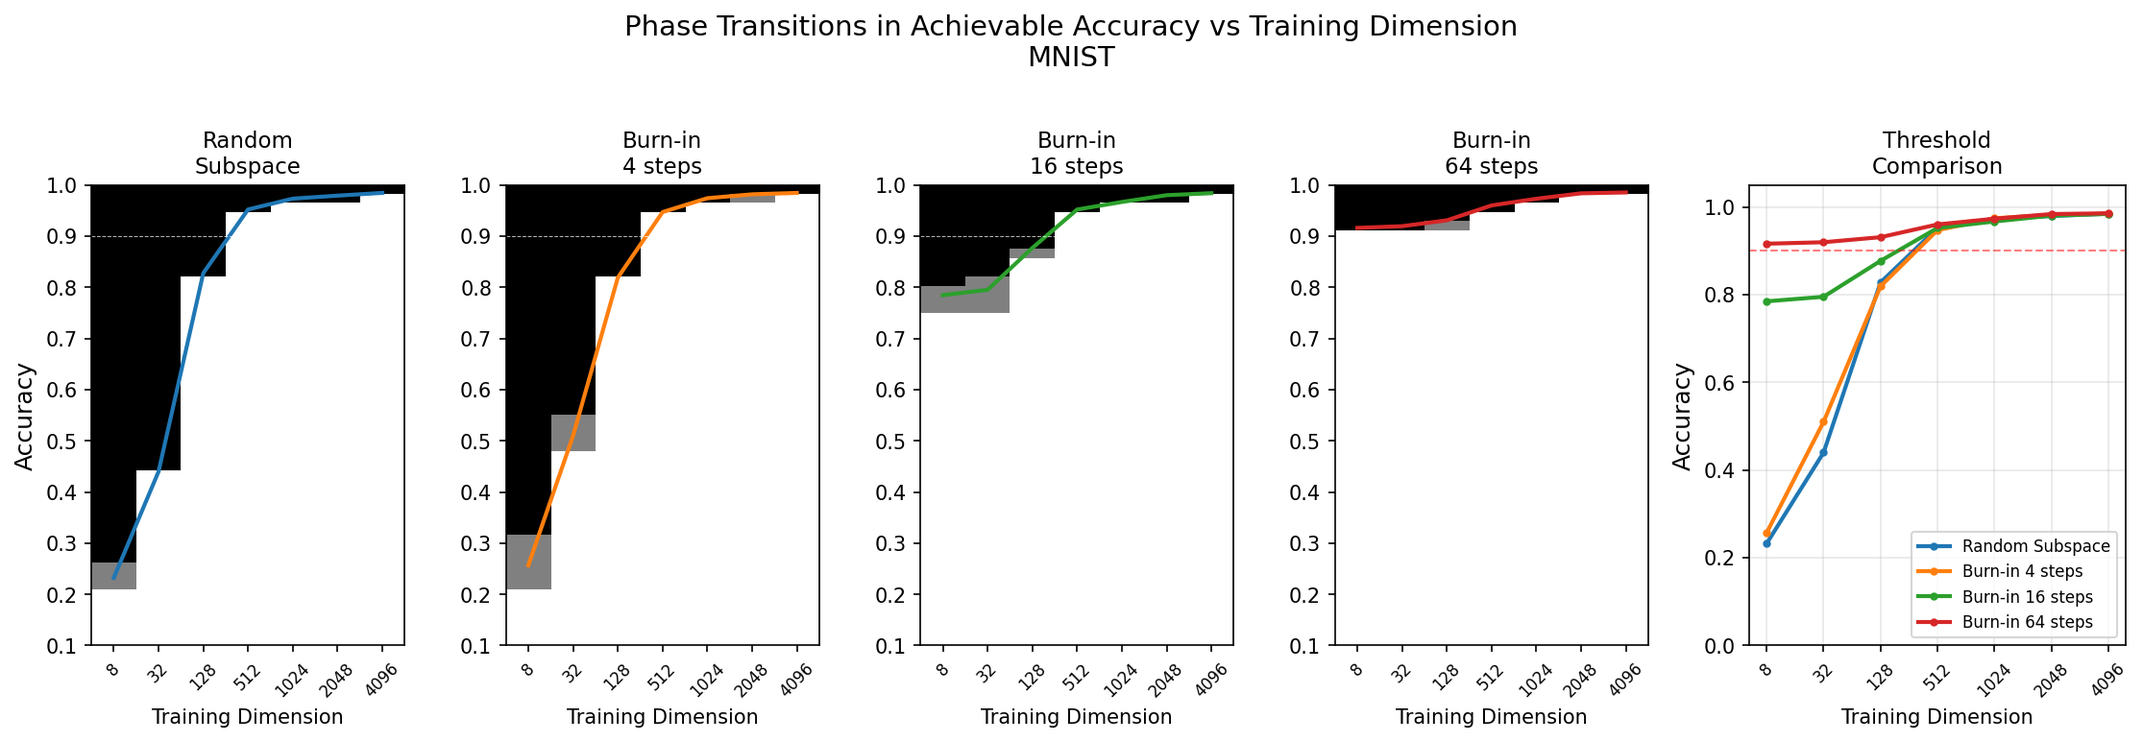
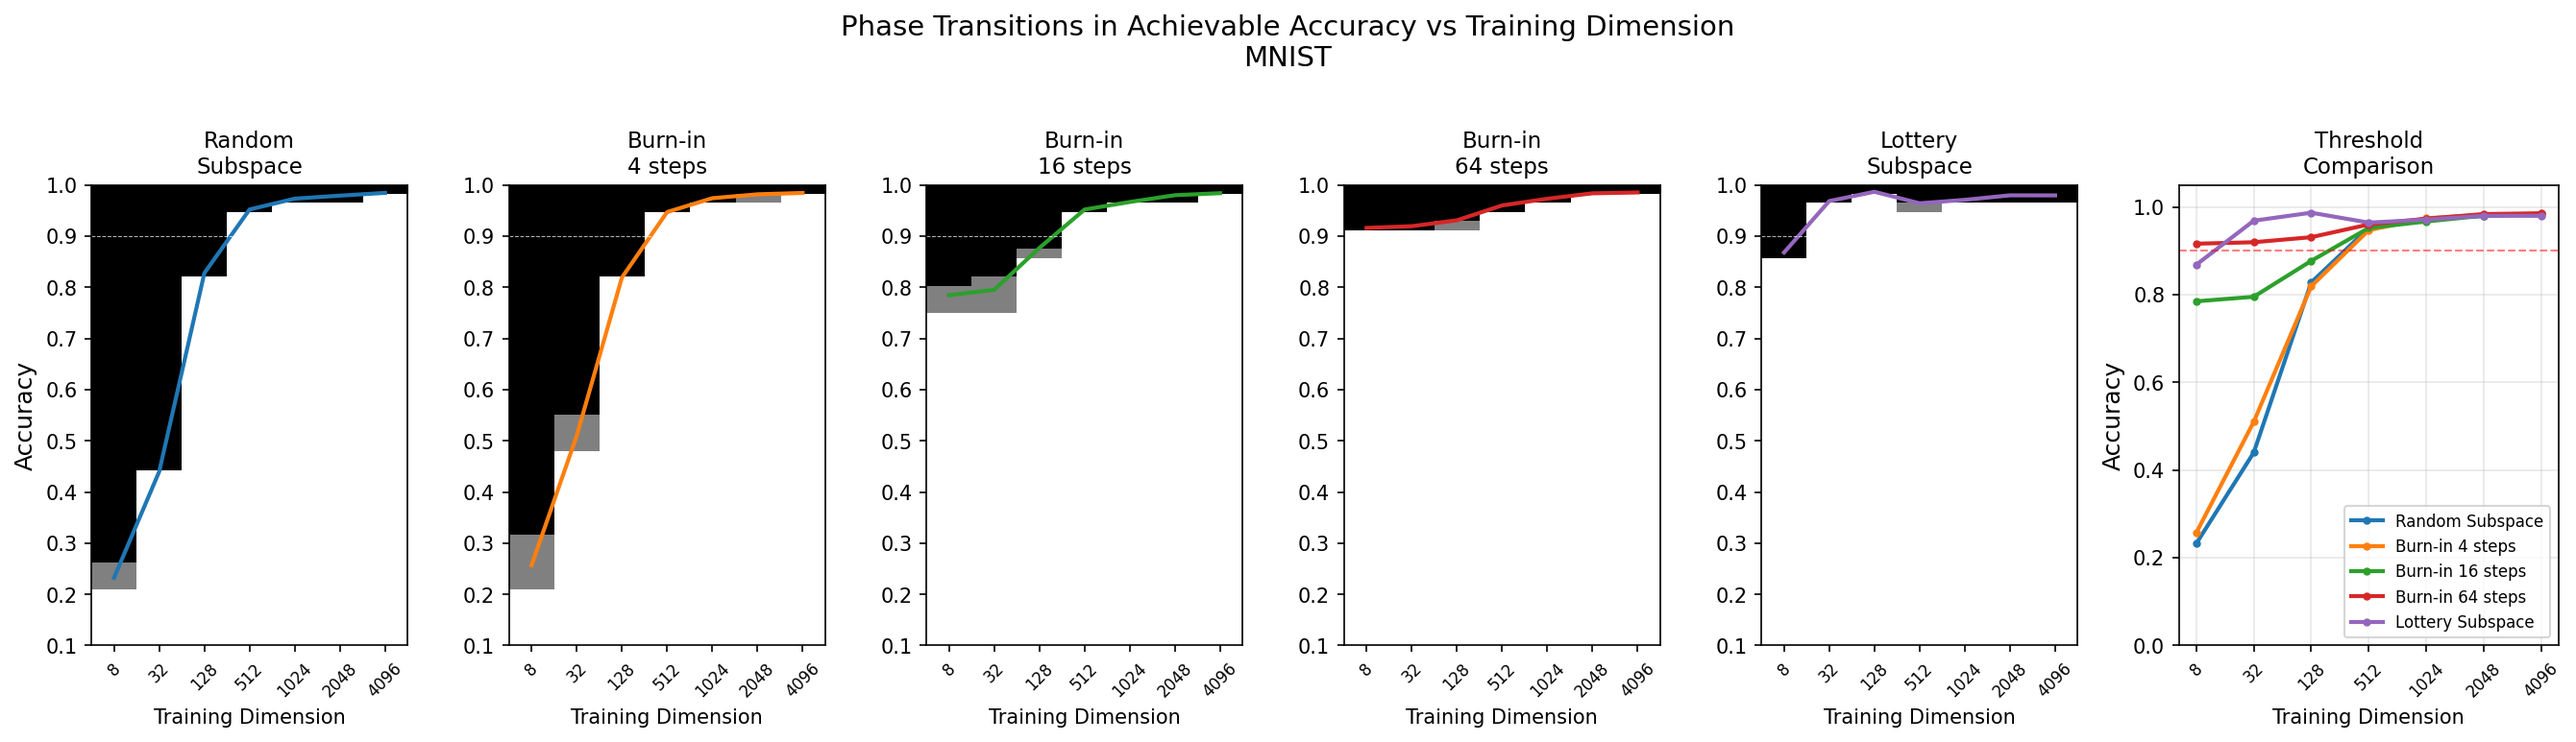
updated pictures

diff --git a/plot_results.py b/plot_results.py
@@ -105,6 +105,7 @@ def plot_phase_transition_heatmap(data_dir, dataset="MNIST", save_dir=None):
         (f"burn_in_subspace_TinyCNN_{dataset}_init4", "Burn-in\n4 steps"),
         (f"burn_in_subspace_TinyCNN_{dataset}_init16", "Burn-in\n16 steps"),
         (f"burn_in_subspace_TinyCNN_{dataset}_init64", "Burn-in\n64 steps"),
+        (f"lottery_subspace_TinyCNN_{dataset}", "Lottery\nSubspace"),
     ]
     
     # Accuracy thresholds for y-axis
@@ -144,7 +145,7 @@ def plot_phase_transition_heatmap(data_dir, dataset="MNIST", save_dir=None):
         x_positions = [list(dims).index(d) + 0.5 for d in ds_arr if d in dims]
         mean_acc_filtered = [mean_acc[i] for i, d in enumerate(ds_arr) if d in dims]
         
-        colors = [COLORS['init0'], COLORS['init4'], COLORS['init16'], COLORS['init64']]
+        colors = [COLORS['init0'], COLORS['init4'], COLORS['init16'], COLORS['init64'], COLORS['lottery_subspace']]
         ax.plot(x_positions, mean_acc_filtered, color=colors[idx], linewidth=2)
         threshold_curves.append((x_positions, mean_acc_filtered, colors[idx], label.replace('\n', ' ')))
         
@@ -424,6 +425,113 @@ def plot_threshold_dimension(data_dir, accuracy_threshold=0.9, save_dir=None):
     plt.show()
 
 
+def plot_train_test_comparison(data_dir, dataset="MNIST", save_dir=None):
+    """
+    Plot train vs test accuracy comparison across all methods.
+    Similar to paper Figure showing compression ratio vs accuracy.
+    """
+    fig, (ax1, ax2) = plt.subplots(1, 2, figsize=(14, 6), sharey=True)
+    
+    # Methods to plot (subspace methods)
+    subspace_methods = [
+        ("burn_in_subspace_TinyCNN_{}_init0".format(dataset), "Random Subspace", COLORS['init0'], 'o'),
+        ("burn_in_subspace_TinyCNN_{}_init4".format(dataset), "Burn-in 4", COLORS['init4'], 's'),
+        ("burn_in_subspace_TinyCNN_{}_init16".format(dataset), "Burn-in 16", COLORS['init16'], '^'),
+        ("burn_in_subspace_TinyCNN_{}_init64".format(dataset), "Burn-in 64", COLORS['init64'], 'D'),
+        ("lottery_subspace_TinyCNN_{}".format(dataset), "Lottery Subspace", COLORS['lottery_subspace'], 'p'),
+    ]
+    
+    # Get full dimension D from first available result
+    full_D = None
+    for pattern, _, _, _ in subspace_methods:
+        files = find_result_files(data_dir, pattern)
+        if files:
+            result = load_pickle(files[0])
+            full_D = result.get('full_d', None)
+            if full_D:
+                break
+    
+    if full_D is None:
+        full_D = 8000  # Fallback estimate for TinyCNN
+    
+    # Plot subspace methods
+    for pattern, label, color, marker in subspace_methods:
+        files = find_result_files(data_dir, pattern)
+        if files:
+            result = load_pickle(files[0])
+            data = result['data']
+            ds = np.array(data['d'])
+            test_accs = np.array([float(x) for x in data['test_acc']])
+            train_accs = np.array([float(x) for x in data['full_train_acc']])
+            
+            # Group by dimension
+            unique_ds = np.unique(ds)
+            compression_ratios = full_D / unique_ds
+            
+            mean_test = []
+            std_test = []
+            mean_train = []
+            std_train = []
+            
+            for d in unique_ds:
+                mask = ds == d
+                mean_test.append(np.mean(test_accs[mask]))
+                std_test.append(np.std(test_accs[mask]))
+                mean_train.append(np.mean(train_accs[mask]))
+                std_train.append(np.std(train_accs[mask]))
+            
+            # Left: Train accuracy
+            ax1.errorbar(compression_ratios, mean_train, yerr=std_train, 
+                        marker=marker, color=color, label=label, 
+                        linewidth=2, capsize=3, markersize=6)
+            
+            # Right: Test accuracy
+            ax2.errorbar(compression_ratios, mean_test, yerr=std_test,
+                        marker=marker, color=color, label=label,
+                        linewidth=2, capsize=3, markersize=6)
+    
+    # Add lottery ticket
+    pattern = f"lottery_ticket_TinyCNN_{dataset}"
+    files = find_result_files(data_dir, pattern)
+    if files:
+        result = load_pickle(files[0])
+        fracs = result['fracs_on_np'].mean(axis=0)
+        test_accs = result['test_accs_np'].mean(axis=0)
+        train_accs = result['train_accs_np'].mean(axis=0)
+        test_std = result['test_accs_np'].std(axis=0)
+        train_std = result['train_accs_np'].std(axis=0)
+        
+        # Compression ratio = 1/fraction
+        compression = 1.0 / fracs
+        
+        ax1.errorbar(compression, train_accs, yerr=train_std,
+                    marker='v', color=COLORS['lottery_ticket_test'], 
+                    label='Lottery Ticket', linewidth=2, capsize=3, markersize=6)
+        ax2.errorbar(compression, test_accs, yerr=test_std,
+                    marker='v', color=COLORS['lottery_ticket_test'],
+                    label='Lottery Ticket', linewidth=2, capsize=3, markersize=6)
+    
+    # Formatting
+    for ax, title in [(ax1, 'Full Train Accuracy'), (ax2, 'Test Accuracy')]:
+        ax.set_xscale('log')
+        ax.set_xlabel('Compression Ratio (D/d)', fontsize=12)
+        ax.set_title(title, fontsize=14)
+        ax.axhline(y=0.9, color='gray', linestyle='--', alpha=0.5, linewidth=1)
+        ax.grid(True, alpha=0.3)
+        ax.set_ylim([0, 1.05])
+        ax.legend(loc='lower right', fontsize=9)
+    
+    ax1.set_ylabel('Accuracy', fontsize=12)
+    
+    plt.suptitle(f'Conv-2 on {dataset}', fontsize=16, y=1.02)
+    plt.tight_layout()
+    
+    if save_dir:
+        plt.savefig(os.path.join(save_dir, f'fig6_train_test_comparison_{dataset}.png'), 
+                   dpi=150, bbox_inches='tight')
+    plt.show()
+
+
 def plot_all(data_dir, save_dir=None):
     """Generate all plots."""
     if save_dir and not os.path.exists(save_dir):
@@ -453,6 +561,12 @@ def plot_all(data_dir, save_dir=None):
     except Exception as e:
         print(f"  Skipping: {e}")
     
+    print("\nGenerating Train/Test Comparison plot (Fig 6)...")
+    try:
+        plot_train_test_comparison(data_dir, 'MNIST', save_dir)
+    except Exception as e:
+        print(f"  Skipping: {e}")
+    
     print("\nGenerating Threshold Dimension plot (Fig 4)...")
     try:
         plot_threshold_dimension(data_dir, save_dir=save_dir)
@@ -464,7 +578,7 @@ def plot_all(data_dir, save_dir=None):
 
 def main():
     parser = argparse.ArgumentParser(description="Plot reproduction results")
-    parser.add_argument("--data_dir", default="../lottery-subspace-data/",
+    parser.add_argument("--data_dir", default="./lottery-subspace-data/",
                        help="Directory containing result pickle files")
     parser.add_argument("--save_dir", default=None,
                        help="Directory to save plots (displays if not set)")
